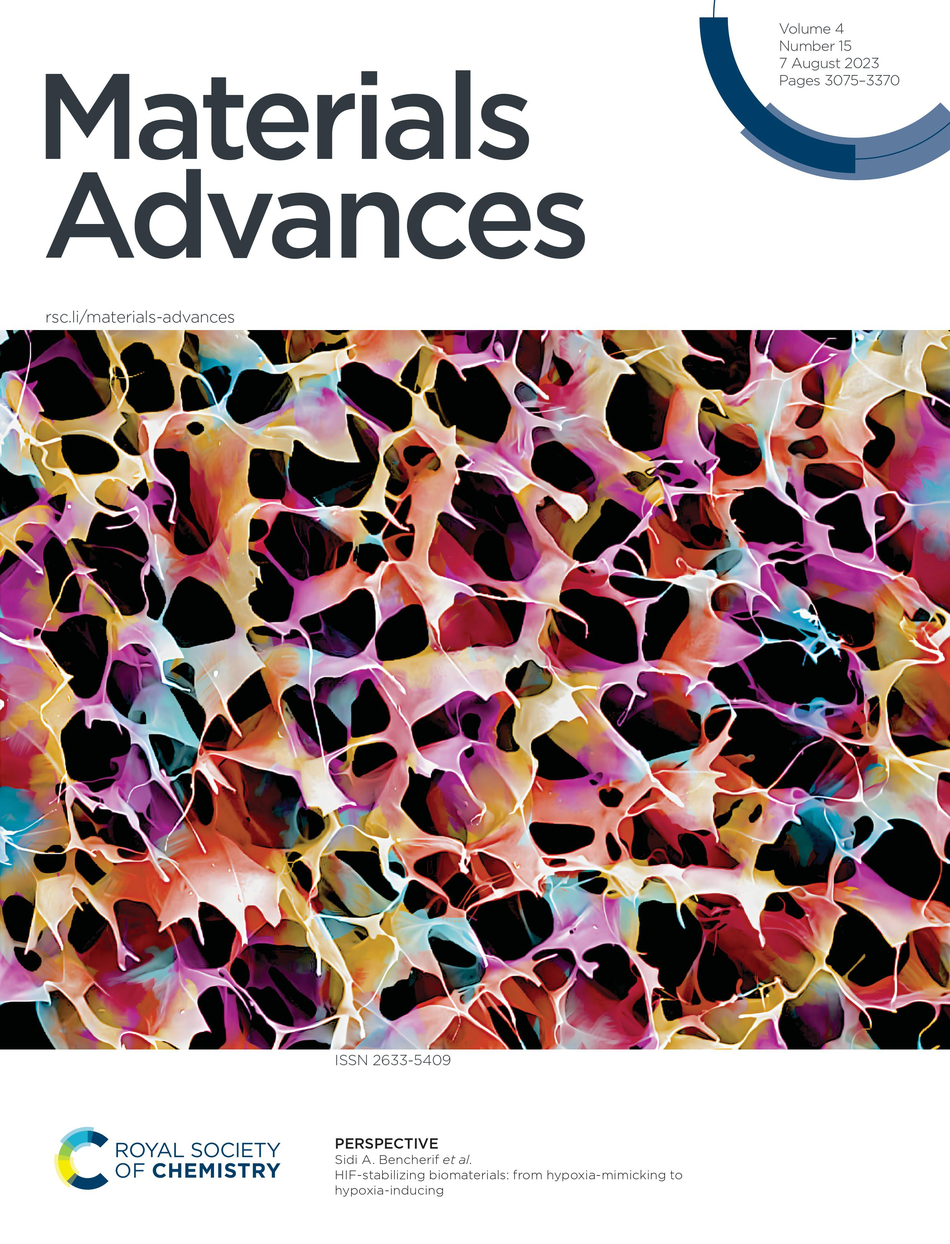
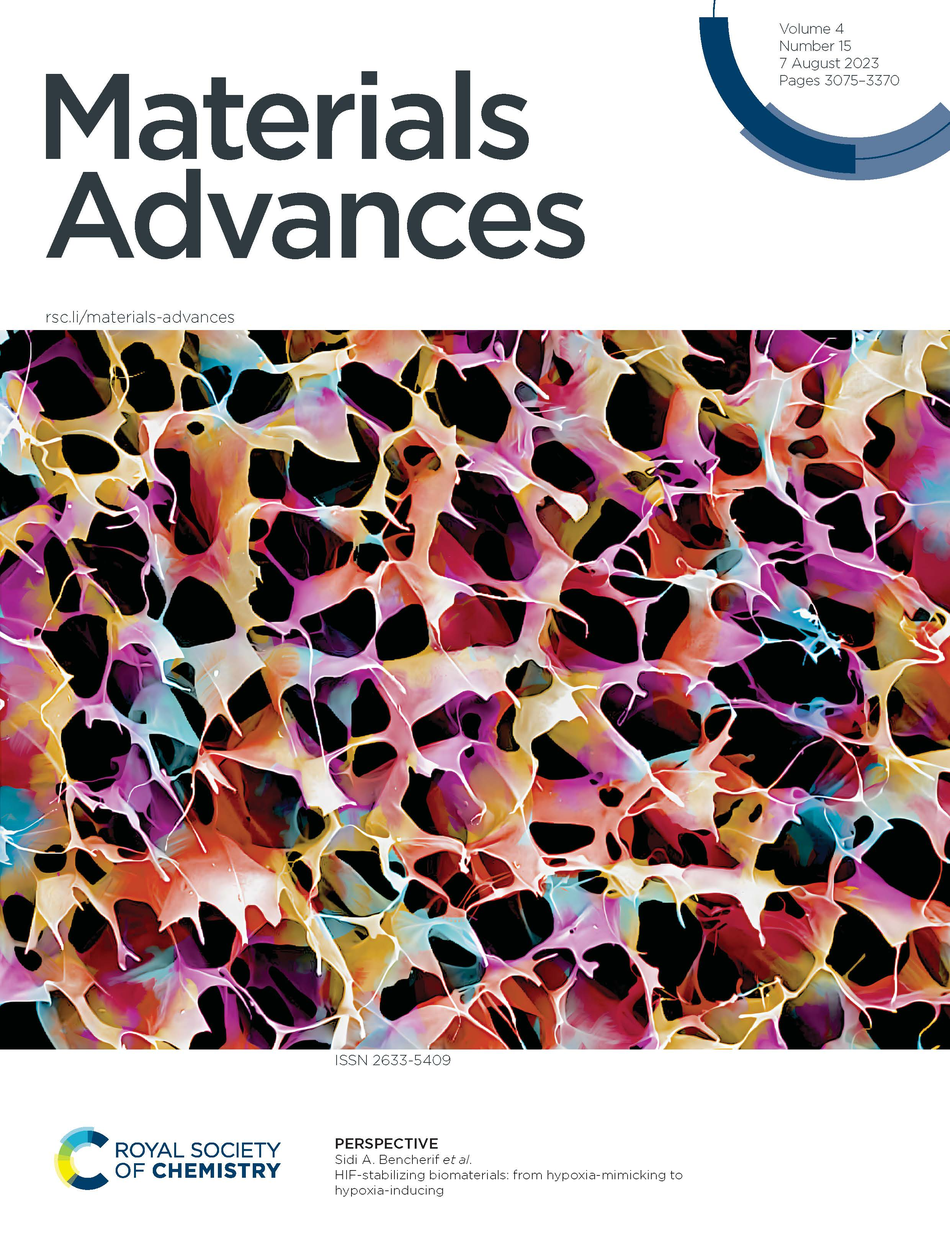
changes to covers

diff --git a/_pages/about.md b/_pages/about.md
@@ -29,17 +29,17 @@ I am a PhD student at University College London (UCL) and dstl under the supervi
 <div class="article-covers">
   <div class="cover">
     <a href="https://doi.org/10.1039/D3MA00249G" target="_blank">
-      <img src="/images/Cover2.jpg" alt="Cover 1" width="200" height="300">
+      <img src="/images/Cover2.jpg" alt="Cover 1" width="300" height="400">
     </a>
   </div>
   <div class="cover">
     <a href="https://doi.org/10.1002/admi.202400256" target="_blank">
-      <img src="/images/Cover1.jpg" alt="Cover 2" width="200" height="300">
+      <img src="/images/Cover1.jpg" alt="Cover 2" width="300" height="400">
     </a>
   </div>
   <div class="cover">
     <a href="https://doi.org/10.1016/j.apmt.2024.102286" target="_blank">
-      <img src="/images/Cover3.gif" alt="Cover 3" width="200" height="300">
+      <img src="/images/Cover3.jpg" alt="Cover 3" width="300" height="400">
     </a>
   </div>
 </div>
